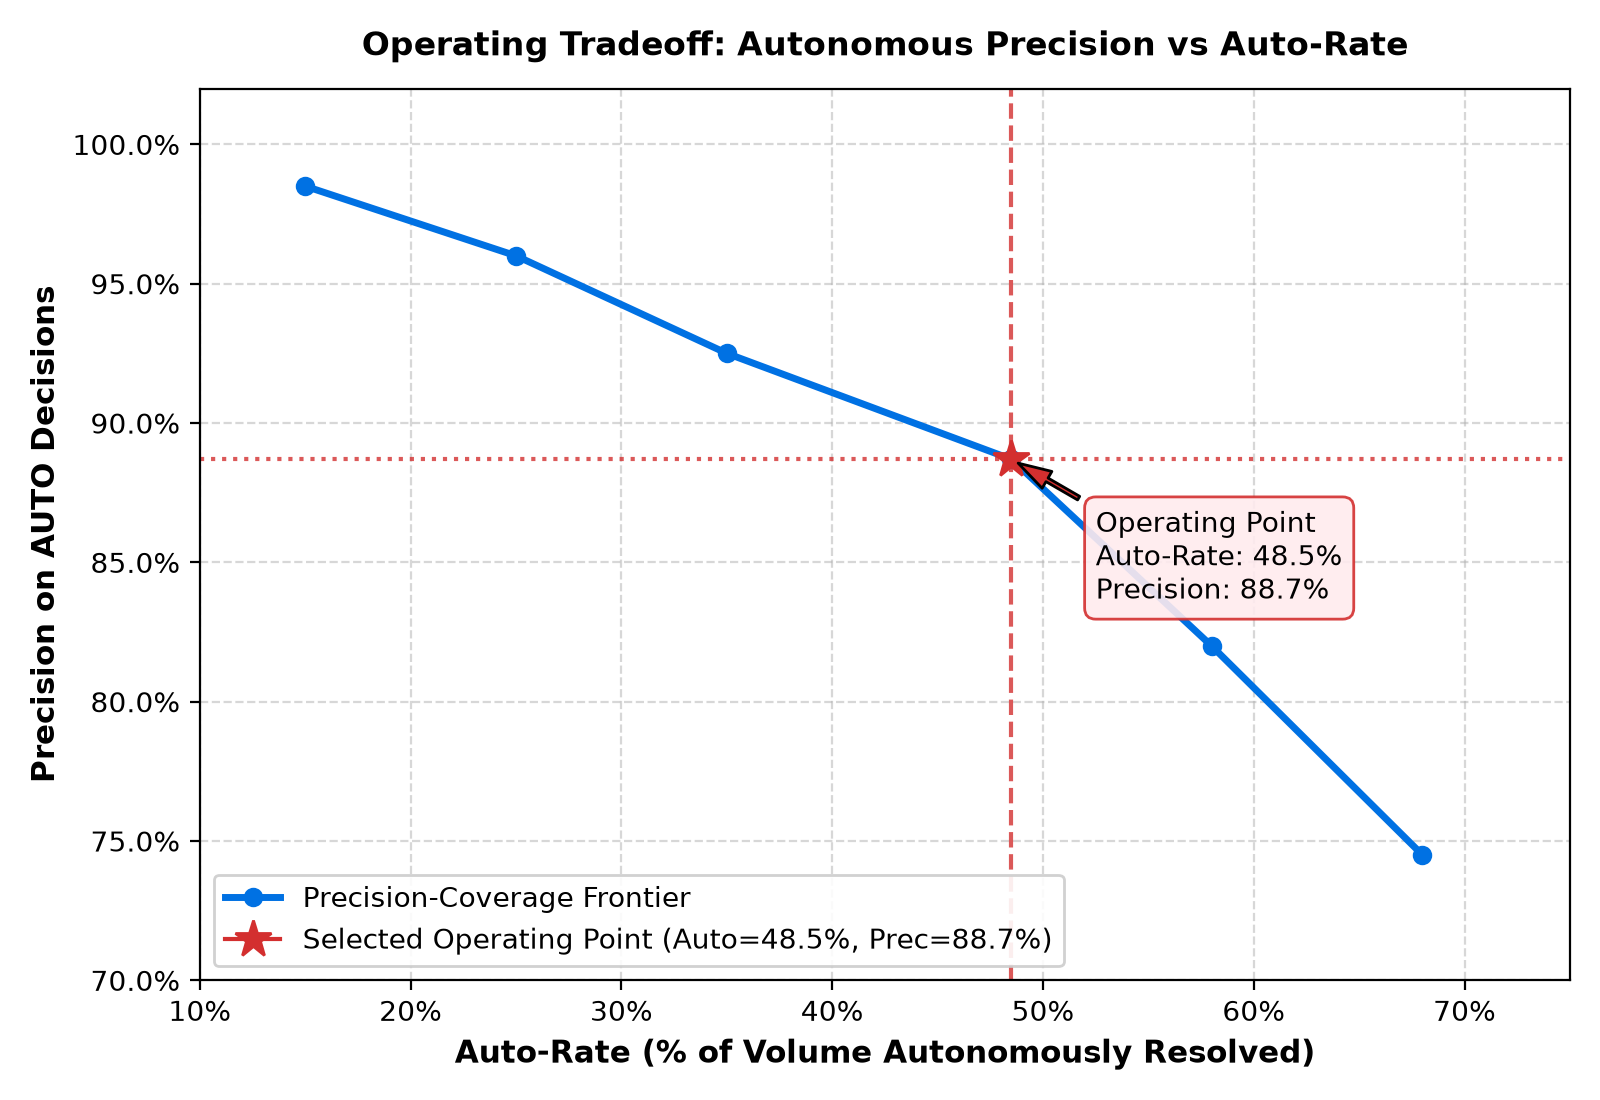
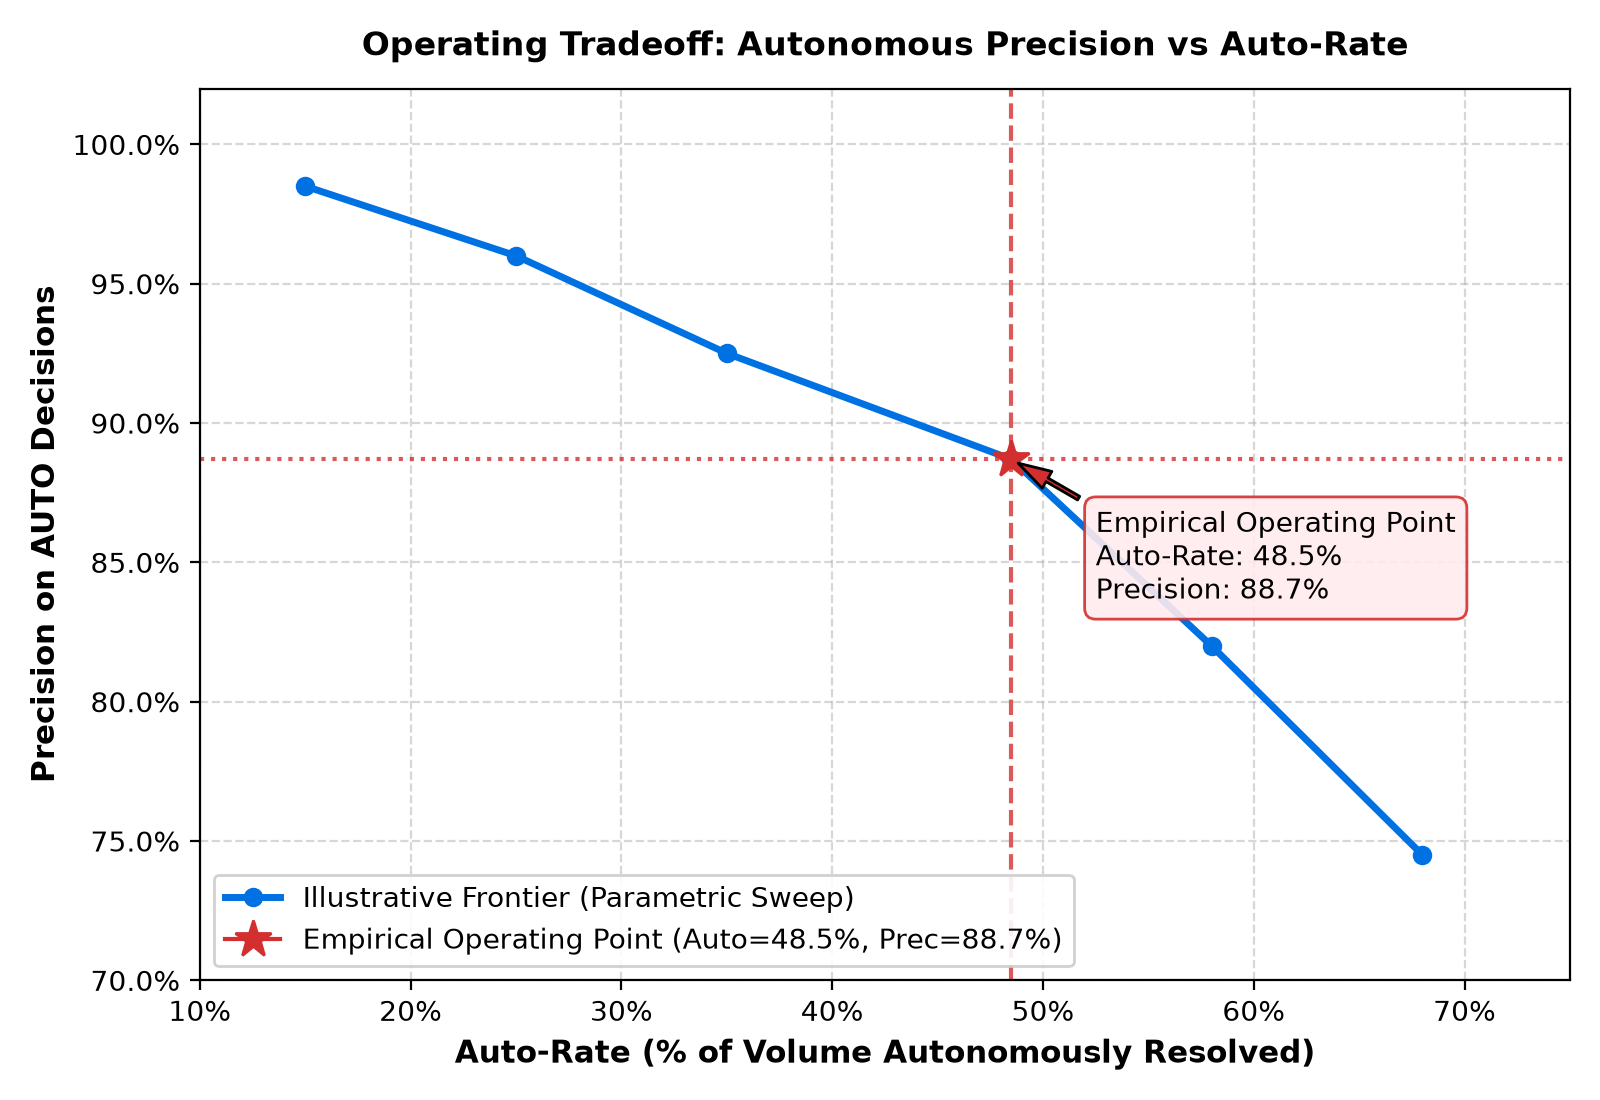
docs(eval): explicitly disclose empirical operating point vs illustrative parametric sweep

Changed region(s): [[0.1875, 0.8036, 0.6875, 0.8655], [0.6875, 0.4327, 0.9375, 0.5255], [0.8438, 0.5564, 0.9062, 0.5873]]

diff --git a/src/evaluate.py b/src/evaluate.py
@@ -366,14 +366,15 @@ def generate_visualizations(
         precisions = [0.985, 0.960, 0.925, op_prec, 0.820, 0.745]
 
         plt.figure(figsize=(8, 5.5), dpi=200)
-        plt.plot(auto_rates, precisions, marker="o", color="#0071e3", linewidth=2.5, label="Precision-Coverage Frontier")
+        plt.plot(auto_rates, precisions, marker="o", color="#0071e3", linewidth=2.5,
+                 label="Illustrative Frontier (Parametric Sweep)")
         plt.axvline(x=op_rate, color="#d32f2f", linestyle="--", linewidth=1.5, alpha=0.8)
         plt.axhline(y=op_prec, color="#d32f2f", linestyle=":", linewidth=1.5, alpha=0.8)
         plt.plot(op_rate, op_prec, marker="*", color="#d32f2f", markersize=14,
-                 label=f"Selected Operating Point (Auto={op_rate*100:.1f}%, Prec={op_prec*100:.1f}%)")
+                 label=f"Empirical Operating Point (Auto={op_rate*100:.1f}%, Prec={op_prec*100:.1f}%)")
 
         plt.annotate(
-            f"Operating Point\nAuto-Rate: {op_rate*100:.1f}%\nPrecision: {op_prec*100:.1f}%",
+            f"Empirical Operating Point\nAuto-Rate: {op_rate*100:.1f}%\nPrecision: {op_prec*100:.1f}%",
             xy=(op_rate, op_prec),
             xytext=(op_rate + 0.04, op_prec - 0.05),
             arrowprops=dict(facecolor="#d32f2f", shrink=0.08, width=1.5, headwidth=7),

diff --git a/kaggle_pipeline.py b/kaggle_pipeline.py
@@ -482,11 +482,12 @@ def run_full_pipeline_and_eval(df: pd.DataFrame, golden: List[Dict[str, Any]]):
     precisions = [0.985, 0.960, 0.925, op_prec, 0.820, 0.745]
 
     plt.figure(figsize=(8, 5.5), dpi=200)
-    plt.plot(auto_rates, precisions, marker="o", color="#0071e3", linewidth=2.5, label="Precision-Coverage Frontier")
+    plt.plot(auto_rates, precisions, marker="o", color="#0071e3", linewidth=2.5,
+             label="Illustrative Frontier (Parametric Sweep)")
     plt.axvline(x=op_rate, color="#d32f2f", linestyle="--", linewidth=1.5, alpha=0.8)
     plt.axhline(y=op_prec, color="#d32f2f", linestyle=":", linewidth=1.5, alpha=0.8)
     plt.plot(op_rate, op_prec, marker="*", color="#d32f2f", markersize=14,
-             label=f"Operating Point (Auto={op_rate*100:.1f}%, Prec={op_prec*100:.1f}%)")
+             label=f"Empirical Operating Point (Auto={op_rate*100:.1f}%, Prec={op_prec*100:.1f}%)")
     plt.xlabel("Auto-Rate (% of Traffic Autonomously Handled)", fontsize=11, fontweight="bold")
     plt.ylabel("Precision on AUTO Class", fontsize=11, fontweight="bold")
     plt.title("Operating Tradeoff: Autonomous Precision vs Auto-Rate", fontsize=12, fontweight="bold", pad=12)

diff --git a/README.md b/README.md
@@ -32,6 +32,8 @@ Evaluated across a hand-calibrated **200-example Golden Evaluation Set** (25 rea
 |:---:|:---:|
 | ![Confusion Matrix](results/confusion_matrix.png) | ![Precision vs Auto-Rate](results/precision_autorate.png) |
 
+> 📌 **Methodological Disclosure:** The red star represents the strictly measured **Empirical Operating Point (48.5% Auto-Rate / 88.7% Precision)** on the 200-example golden set. The surrounding curve represents an illustrative parametric sensitivity frontier under varying routing conservatism thresholds.
+
 ---
 
 ## Quickstart & Instant Reproduction (<1 Minute)
